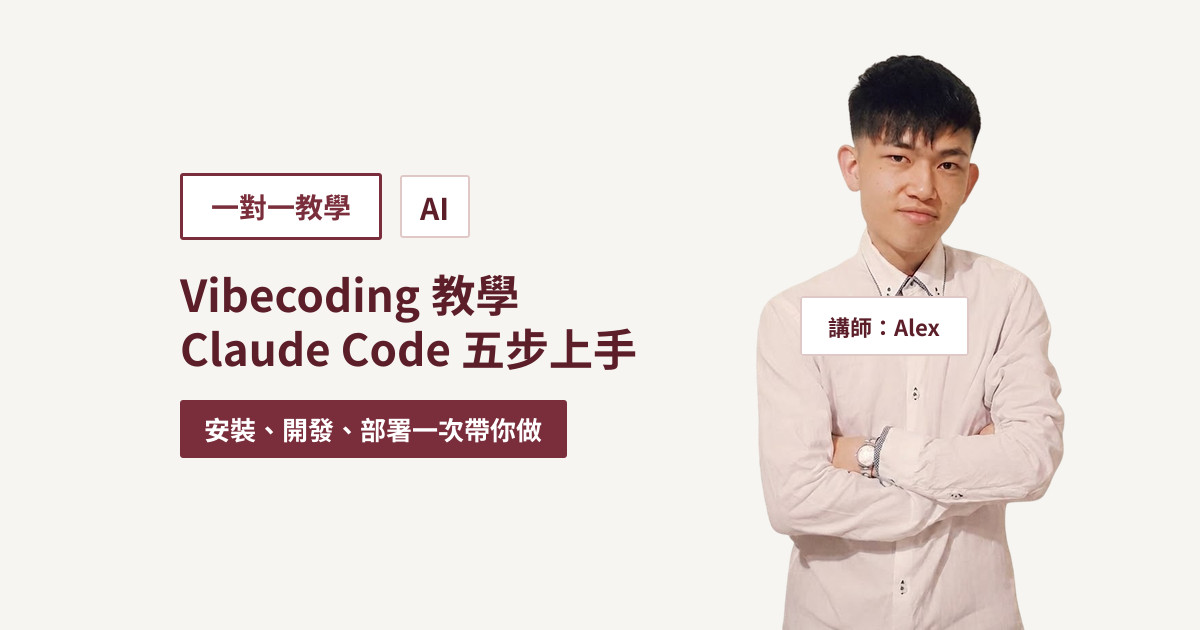
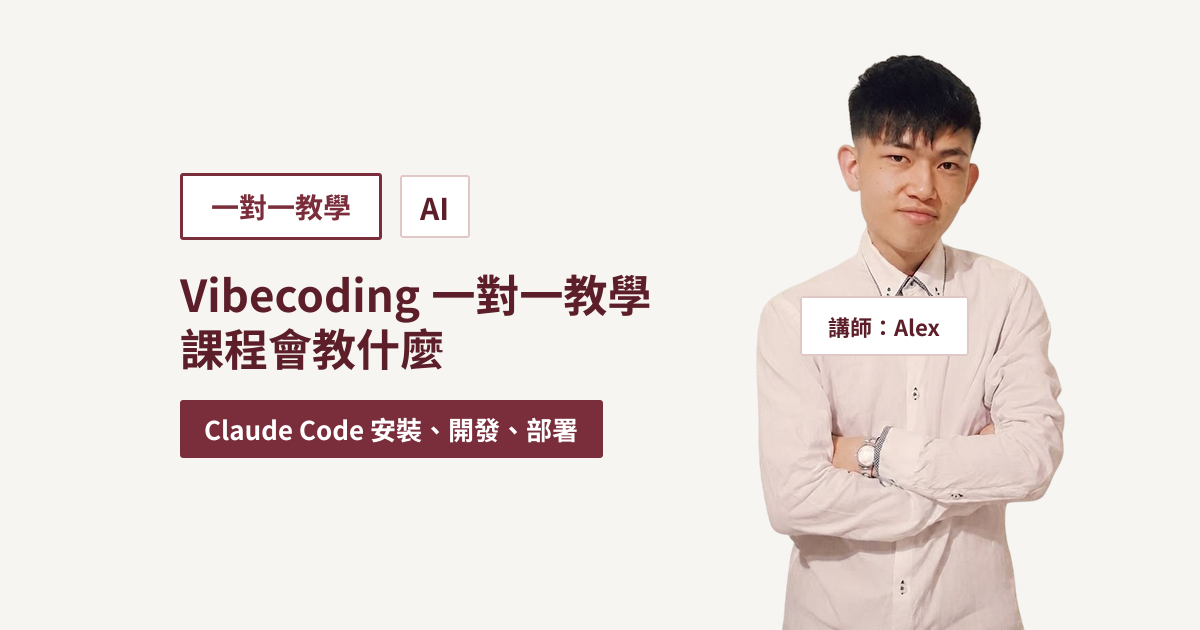
Vibecoding 教學文改為四步，更新描述與封面
訂閱 Claude 與安裝 Claude Code 合併為第一步，本機稿同步；封面主副標改為課程導向文案。

Changed region(s): [[0.1542, 0.4222, 0.555, 0.6032], [0.1542, 0.6333, 0.5242, 0.7238]]

diff --git a/blog-posts/2026-10-28-vibecoding-tutorial/draft-v0.1.md b/blog-posts/2026-10-28-vibecoding-tutorial/draft-v0.1.md
@@ -1,19 +1,17 @@
 # Vibecoding 一對一教學會教什麼？Claude Code 安裝、開發、部署
 
-第一步，訂閱 Claude。月繳 20 美元的 Pro 方案就能用 Claude Code，免費方案不能用。
+第一步，訂閱 Claude，裝 Claude Code。月繳 20 美元的 Pro 方案就能用 Claude Code，免費方案不能用。不會寫程式也能做網站，用中文講你要什麼就好。沒用過程式工具的人裝桌面版，想邊做邊看程式碼的人裝 VS Code 擴充套件。
 
-第二步，裝 Claude Code。不會寫程式也能做網站，用中文講你要什麼就好。沒用過程式工具的人裝桌面版，想邊做邊看程式碼的人裝 VS Code 擴充套件。
+第二步，裝 grill-me。為了提升開發效率，一開始就讓 AI 釐清完整需求，避免 AI 理解錯誤、反覆修改。
 
-第三步，裝 grill-me。為了提升開發效率，一開始就讓 AI 釐清完整需求，避免 AI 理解錯誤、反覆修改。
-
-第四步，開始寫程式。先在本機開資料夾，從最簡單的一頁式形象網站開始，完成第一個專案。我會教：
+第三步，開始寫程式。先在本機開資料夾，從最簡單的一頁式形象網站開始，完成第一個專案。我會教：
 
 - 常用的 Debug 做法
 - 怎麼節省 Token 用量
 - 怎麼避免改 A 壞 B
 - 怎麼改善 UI/UX
 
-第五步，部署。部署完別人才打得開你的網站。一頁式網站用 Cloudflare 就好，免費；有資料庫、後台的複雜系統用 GCP，新帳號 90 天內有 300 美元額度可以免費試。
+第四步，部署。部署完別人才打得開你的網站。一頁式網站用 Cloudflare 就好，免費；有資料庫、後台的複雜系統用 GCP，新帳號 90 天內有 300 美元額度可以免費試。
 
 第一次設定好之後，每一步都能自動化。我幫數學老師做的題庫系統，現在只要說一句「修好推上去」，Claude Code 就會改程式、跑測試、上傳，再部署到老師的網站。
 
@@ -23,5 +21,5 @@
 - 想保留每次修改的紀錄、改壞能退回，申請 GitHub。
 - 用 GCP 的話，設定好 SSH 連線，主機上的部署和設定也能交給 Claude Code。
 
-上面五步和進階項目，都是一對一課程會帶著做的內容。看[教學方案](https://aixwang.dev/course/)，雙北咖啡廳或線上都可以約，用 LINE 預約：
+上面四步和進階項目，都是一對一課程會帶著做的內容。看[教學方案](https://aixwang.dev/course/)，雙北咖啡廳或線上都可以約，用 LINE 預約：
 https://lin.ee/raoKSVR
